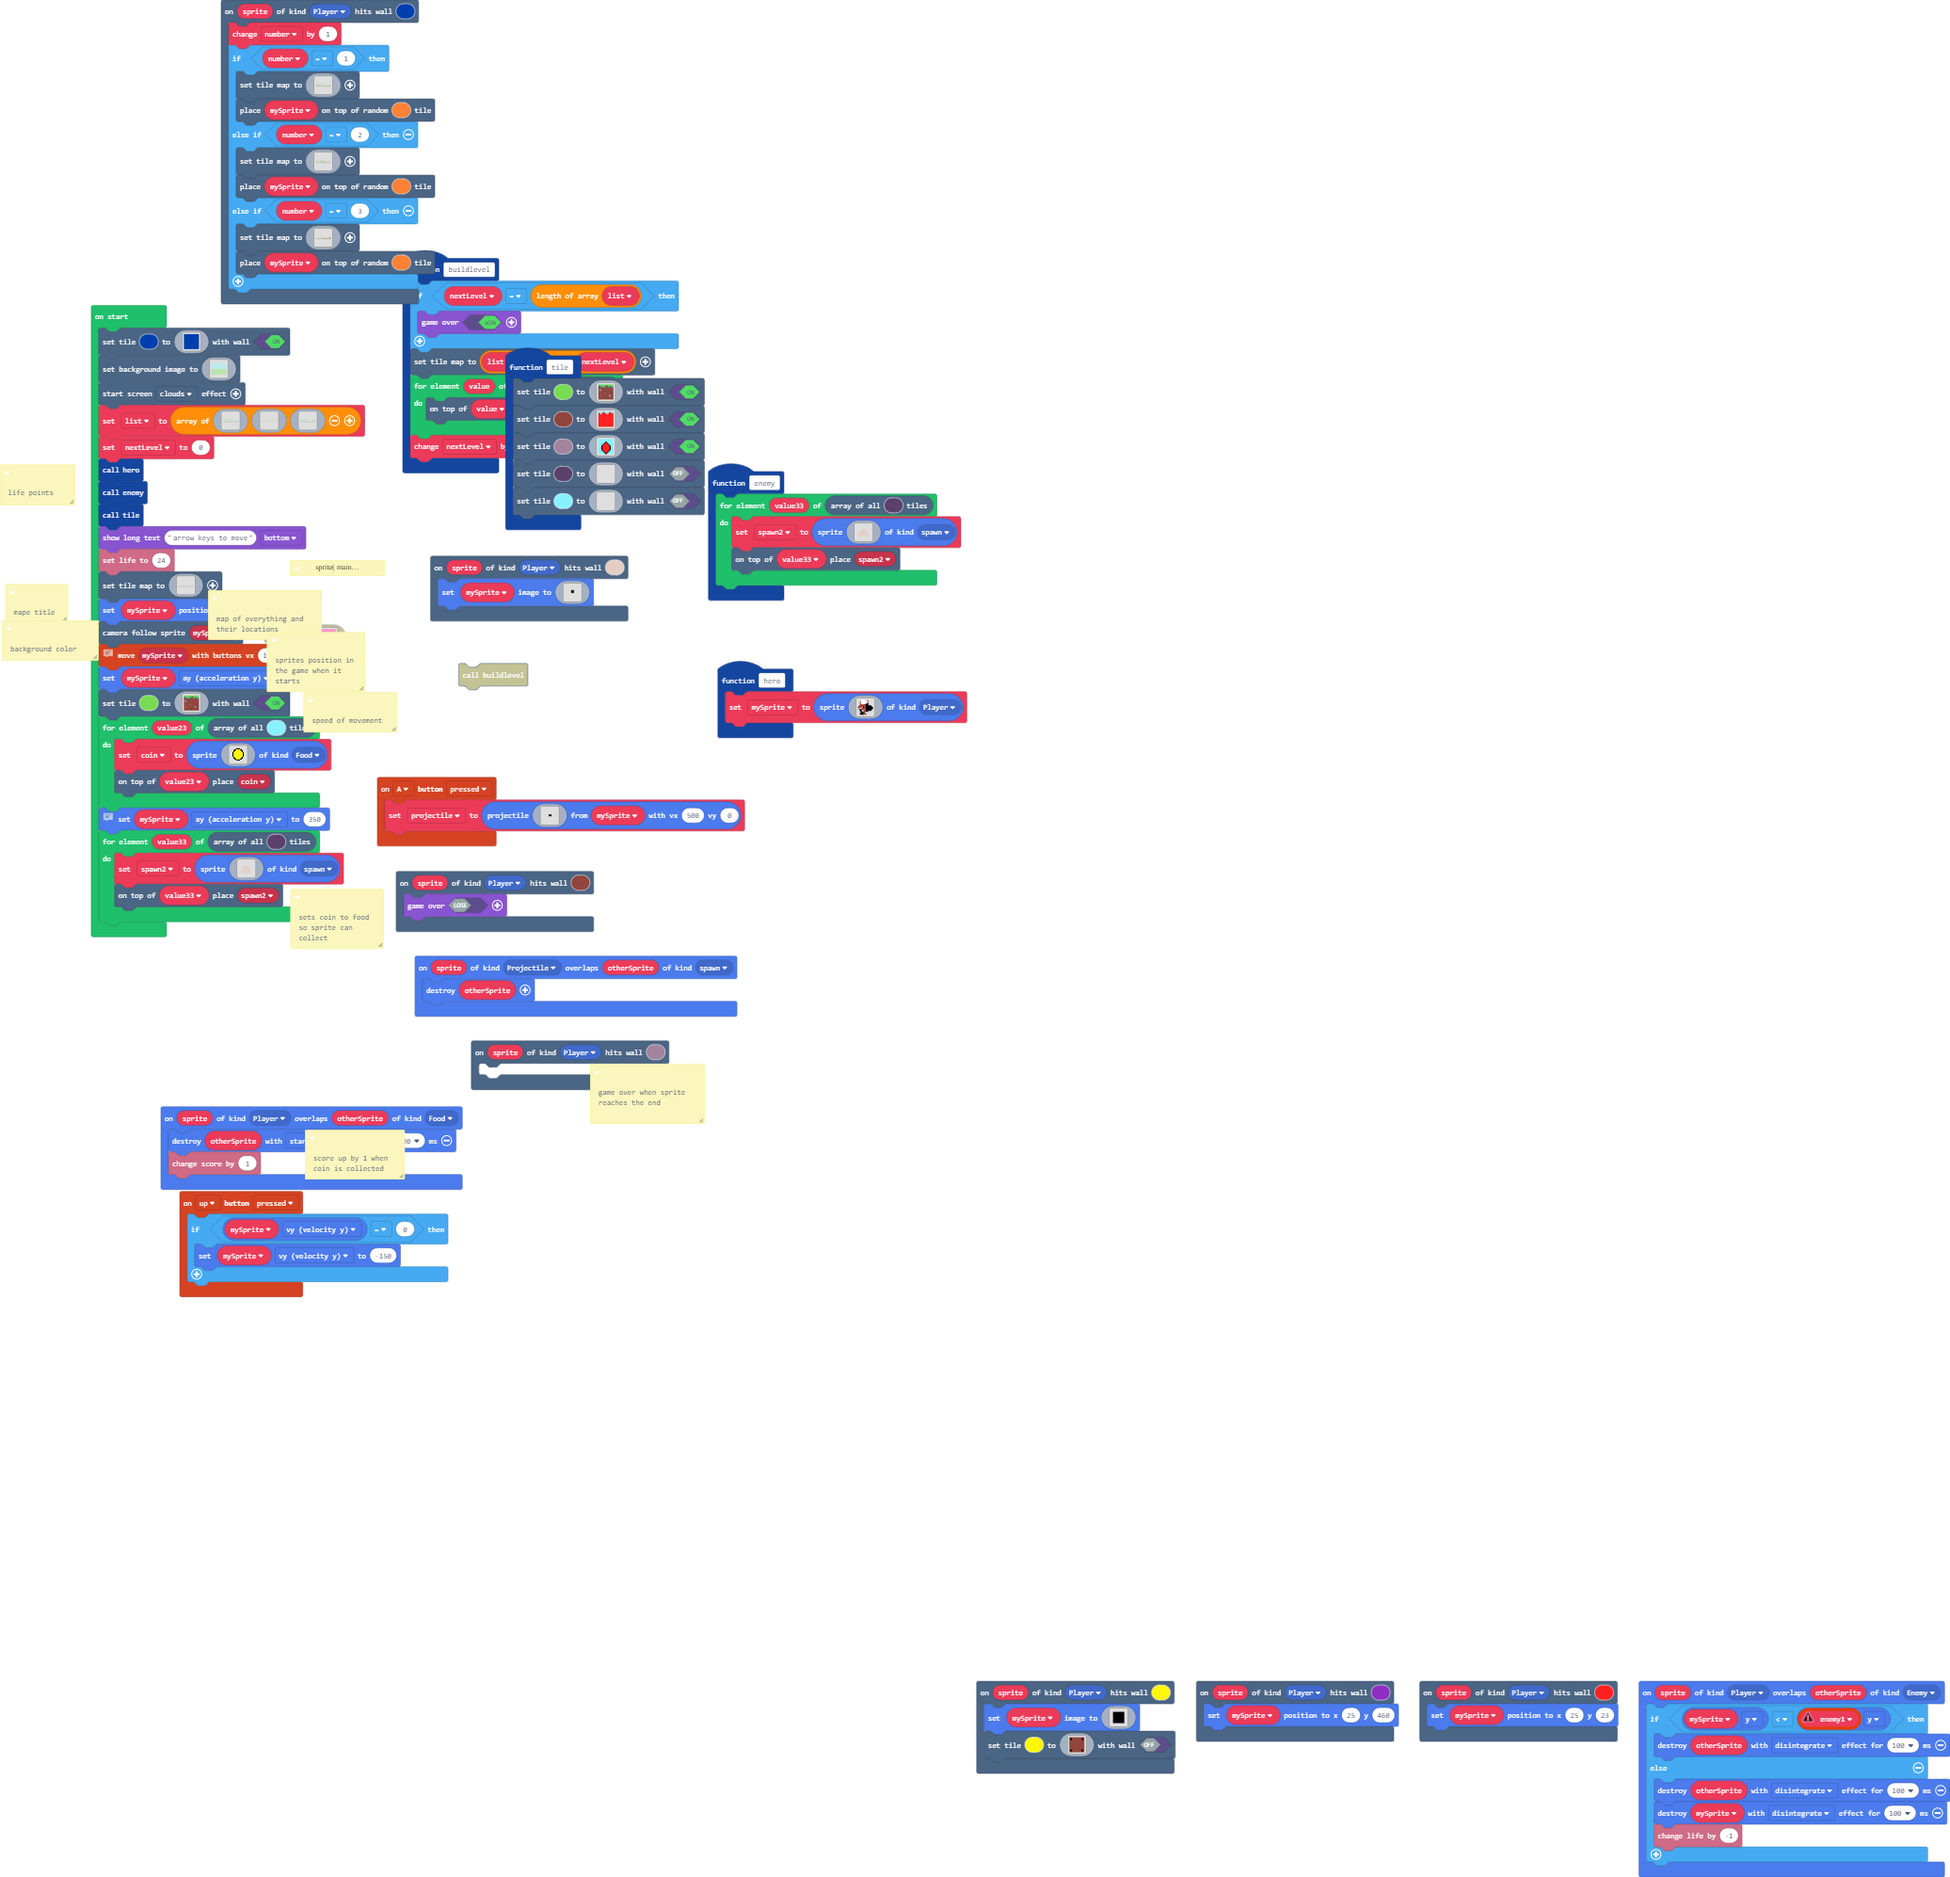
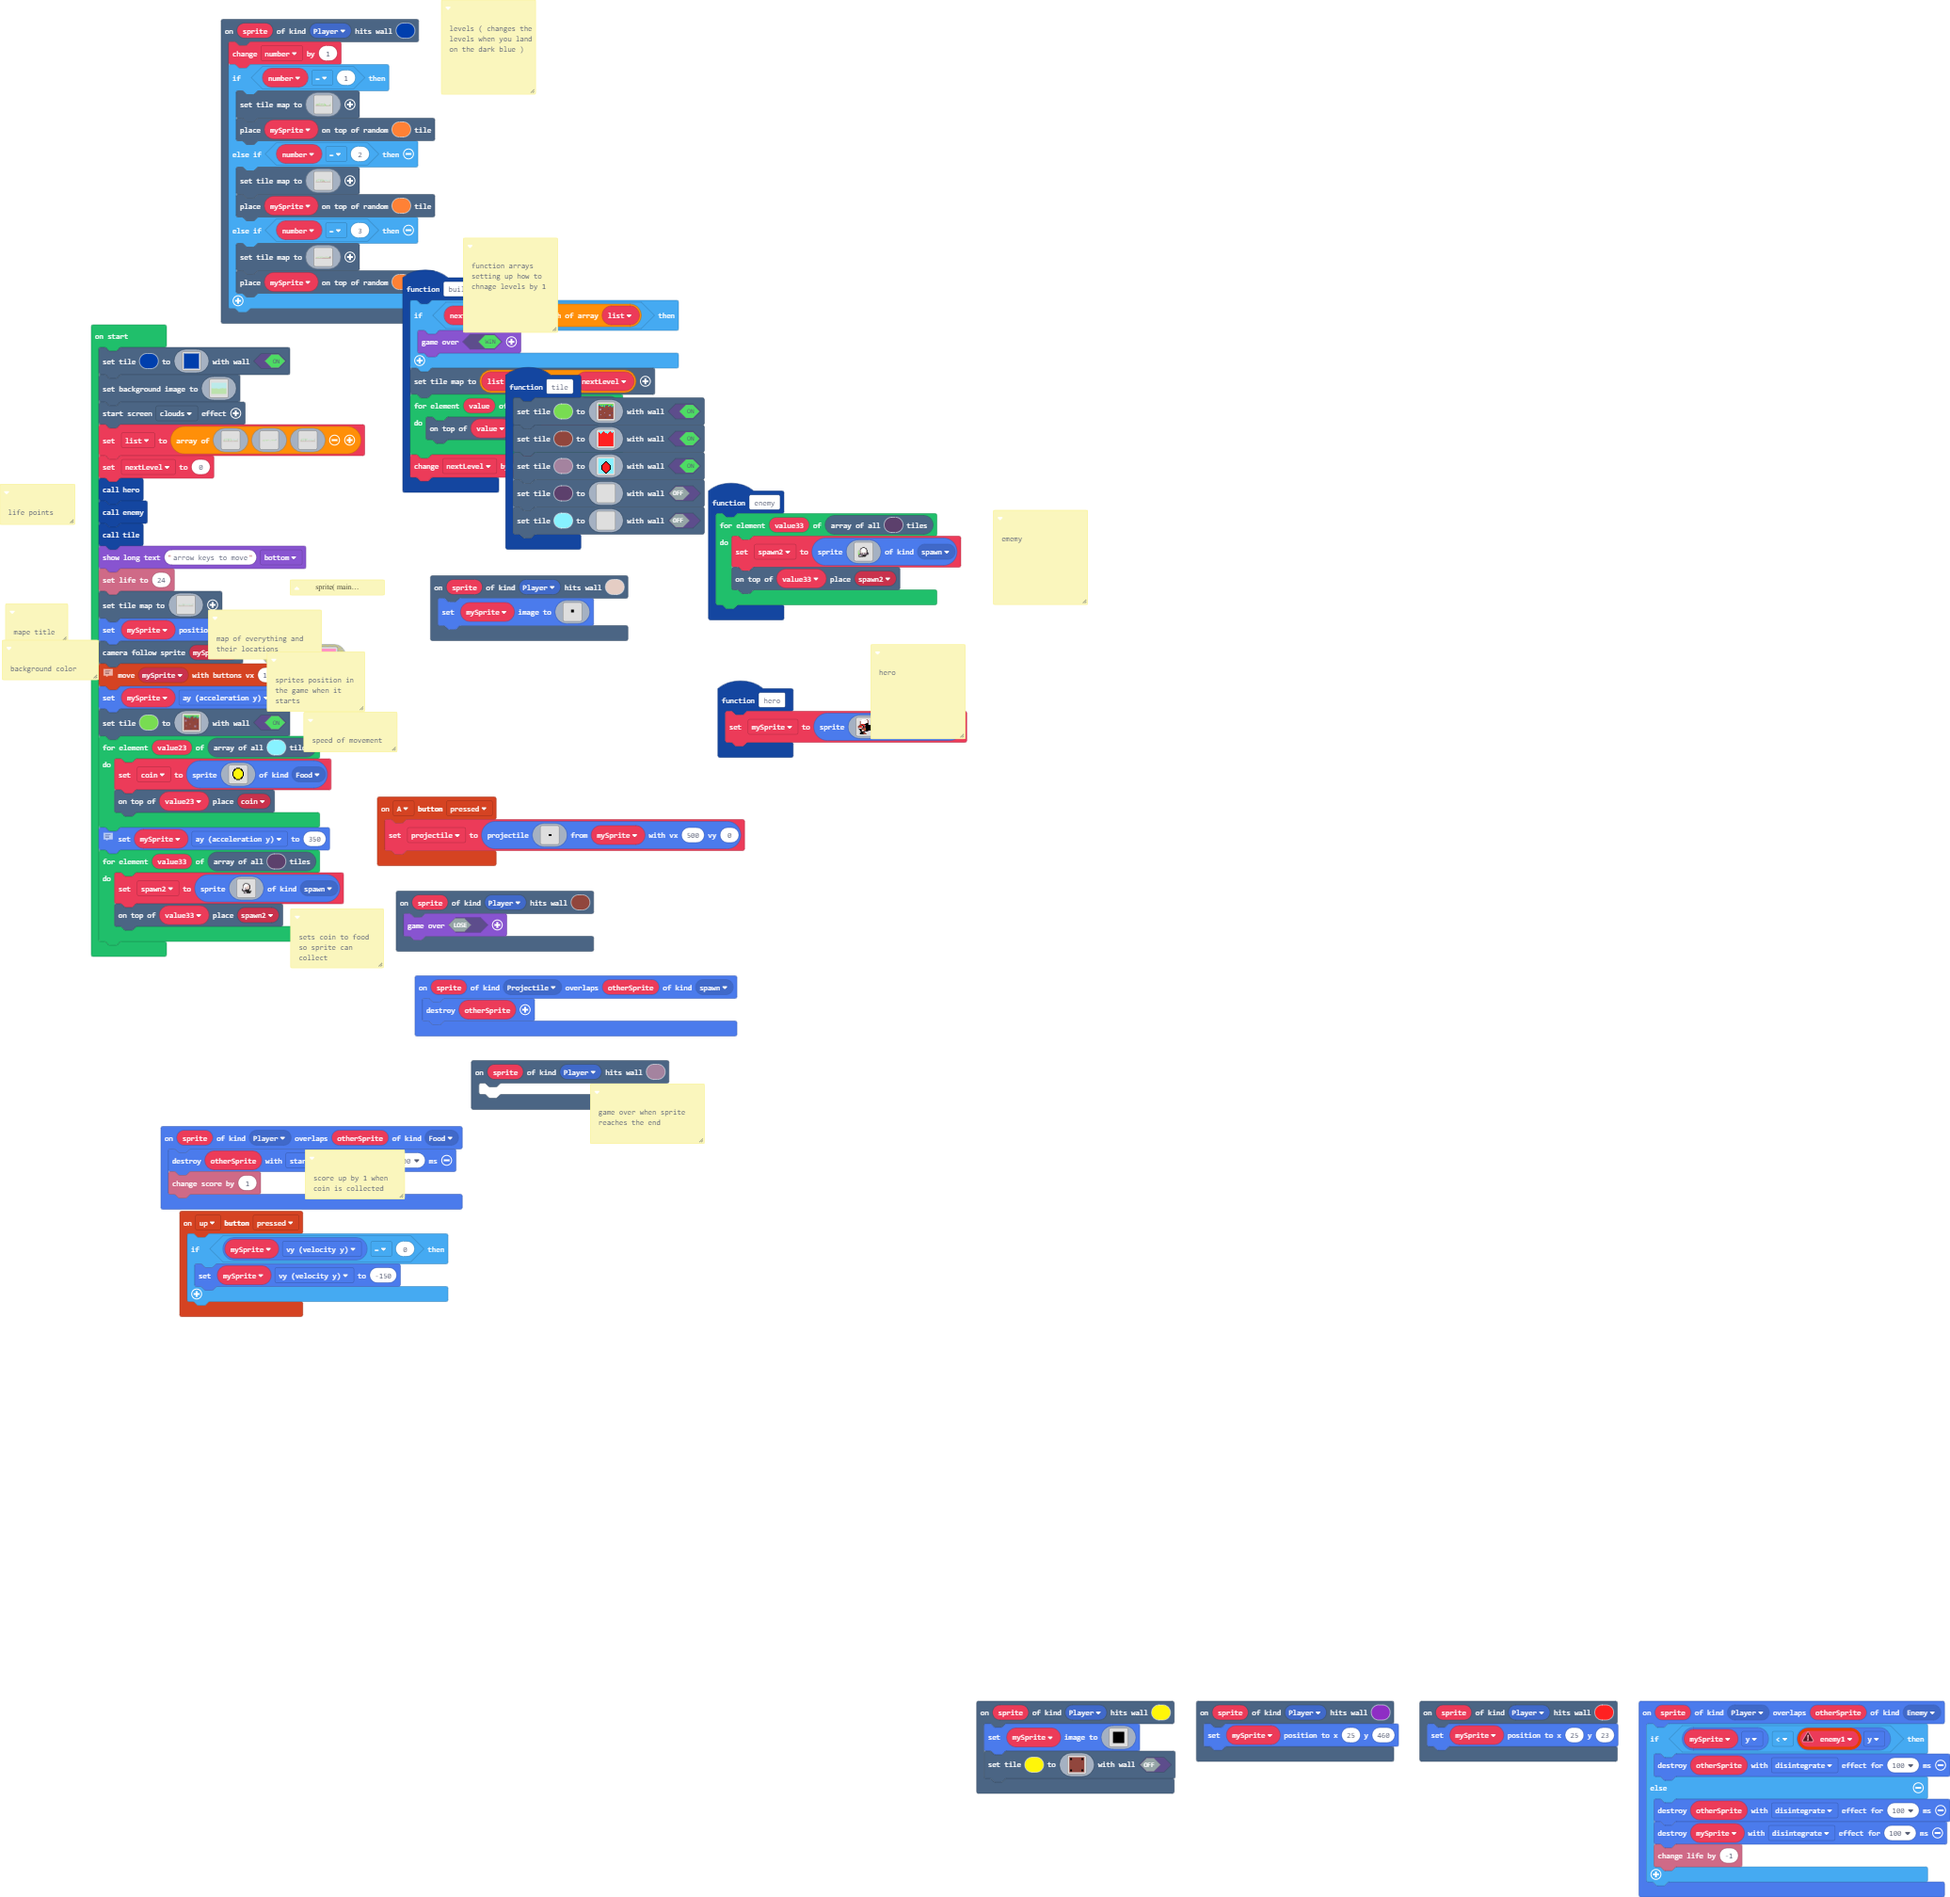
Update main.blocks, main.ts

Changed region(s): [[0.0, 0.0, 0.556, 0.6219], [0.4942, 0.8706, 1.0, 0.995], [0.0618, 0.5908, 0.2471, 0.7151]]

diff --git a/main.ts b/main.ts
@@ -5,7 +5,15 @@ namespace SpriteKind {
  * life points
  */
 /**
+ * ememy
+ */
+/**
  * mape title
+ */
+/**
+ * function arrays 
+ * 
+ * setting up how to chnage levels by 1
  */
 function buildlevel () {
     if (nextLevel == list.length) {
@@ -53,6 +61,9 @@ scene.onHitTile(SpriteKind.Player, 13, function (sprite) {
 . . . . . . . . . . . . . . . . . . . . . . . . . . . . . . . . 
 `)
 })
+/**
+ * hero
+ */
 function hero () {
     mySprite = sprites.create(img`
 . . . . 1 1 1 1 1 e . . . . . . 
@@ -181,6 +192,9 @@ sprites.onOverlap(SpriteKind.Player, SpriteKind.Food, function (sprite, otherSpr
     otherSprite.destroy(effects.starField, 100)
     info.changeScoreBy(1)
 })
+/**
+ * levels ( changes the levels when you land on the dark blue )
+ */
 scene.onHitTile(SpriteKind.Player, 8, function (sprite) {
     number += 1
     if (number == 1) {
@@ -305,22 +319,22 @@ function enemy () {
 . . . . . . . . . . . . . . . . . . . . . . . . 
 . . . . . . . . . . . . . . . . . . . . . . . . 
 . . . . . . . . . . . . . . . . . . . . . . . . 
-. . . . . . . . . . . . . . . . . . . . . . . . 
-. . . . . . . . . . . . . . . . . . . . . . . . 
-. . . . . . . . . d d d d d . . . . . . . . . . 
-. . . . . . . . d d d d d d d d . . . . . . . . 
-. . . . . . . d d d d d d d d d d . . . . . . . 
-. . . . . . . d d d d d d d d d d . . . . . . . 
-. . . . . . d d d d d d d d d d d . . . . . . . 
-. . . . . . d d d d d d d d d d d d . . . . . . 
-. . . . . d d d d d d d d d d d d d . . . . . . 
-. . . . d d d d d d d d d d d d d d d . . . . . 
-. . . . d d d d d d d d d d d d d d d . . . . . 
-. . . . d d d d d d d d d d d d d d d . . . . . 
-. . . . d d d d d d d d d d d d d d d . . . . . 
-. . . . . d d d d d d d d d d d d d . . . . . . 
-. . . . . . . . . . . . . . . . . . . . . . . . 
-. . . . . . . . . . . . . . . . . . . . . . . . 
+. . . . . . . . . . f f f f . . . . . . . . . . 
+. . . . . . . . f f 1 1 1 1 f f . . . . . . . . 
+. . . . . . . f b 1 1 1 1 1 1 b f . . . . . . . 
+. . . . . . . f 1 1 1 1 1 1 1 1 f . . . . . . . 
+. . . . . . f d 1 1 1 1 1 1 1 1 d f . . . . . . 
+. . . . 7 . f d 1 1 1 1 1 1 1 1 d f . . . . . . 
+. . . 7 . . f d 1 1 1 1 1 1 1 1 d f . . . . . . 
+. . . 7 . . f d 1 1 1 1 1 1 1 1 d f . . . . . . 
+. . . 7 . . f d d d 1 1 1 1 d d d f f . . . . . 
+. . . 7 7 . f b d b f d d f b d b f c f . . . . 
+. . . 7 7 7 f c d c f 1 1 f c d c f b f . . . . 
+. . . . 7 7 f f f b d b 1 b d f f c f . . . . . 
+. . . . f c b 1 b c f f f f f f . . . . . . . . 
+. . . . f 1 c 1 c 1 f f f f f f . . . . . . . . 
+. . . . f d f d f d f f f f f . . . . . . . . . 
+. . . . . f . f . f . . . . . . . . . . . . . . 
 . . . . . . . . . . . . . . . . . . . . . . . . 
 . . . . . . . . . . . . . . . . . . . . . . . . 
 . . . . . . . . . . . . . . . . . . . . . . . . 
@@ -631,22 +645,22 @@ for (let value33 of scene.getTilesByType(12)) {
 . . . . . . . . . . . . . . . . . . . . . . . . 
 . . . . . . . . . . . . . . . . . . . . . . . . 
 . . . . . . . . . . . . . . . . . . . . . . . . 
-. . . . . . . . . . . . . . . . . . . . . . . . 
-. . . . . . . . . . . . . . . . . . . . . . . . 
-. . . . . . . . . . . . . . . . . . . . . . . . 
-. . . . . . . . . d d d d d . . . . . . . . . . 
-. . . . . . . . d d d d d d d d . . . . . . . . 
-. . . . . . . d d d d d d d d d d . . . . . . . 
-. . . . . . . d d d d d d d d d d . . . . . . . 
-. . . . . . d d d d d d d d d d d . . . . . . . 
-. . . . . . d d d d d d d d d d d d . . . . . . 
-. . . . . d d d d d d d d d d d d d . . . . . . 
-. . . . d d d d d d d d d d d d d d d . . . . . 
-. . . . d d d d d d d d d d d d d d d . . . . . 
-. . . . d d d d d d d d d d d d d d d . . . . . 
-. . . . d d d d d d d d d d d d d d d . . . . . 
-. . . . . d d d d d d d d d d d d d . . . . . . 
-. . . . . . . . . . . . . . . . . . . . . . . . 
+. . . . . . . . . f f f f f . . . . . . . . . . 
+. . . . . . . . f 1 1 1 1 1 f f . . . . . . . . 
+. . . . . . . f b 1 1 1 1 1 1 b f . . . . . . . 
+. . . . . . . f 1 1 1 1 1 1 1 d b f . . . . . . 
+. . . . . . f d 1 1 1 1 1 1 d d d f . . . . . . 
+. . . . . . f d 1 1 1 1 1 d d d d f . . . . . . 
+. . . . . . f d 1 1 d d d d d d d f . . . . . . 
+. . . . . . f 1 1 1 d d d d d d d f . . . . . . 
+. . . . . . f 1 1 f c d d d d d d f . . . . . . 
+. . . . . f b 1 1 1 1 b d d d b f . . . . . . . 
+. . . . . f 1 b 1 b d f c f f f . . . . . . . . 
+. . . . . f b f b f f f f f f f f . . . . . . . 
+. . . . . . f f f f f f f f f f f . f f . . . . 
+. . . . . . . . . . . f f f f f f f f . . . . . 
+. . . . . . . . f 1 b 1 b f f f f f f . . . . . 
+. . . . . . . . f b f b f f f f f f . . . . . . 
 . . . . . . . . . . . . . . . . . . . . . . . . 
 . . . . . . . . . . . . . . . . . . . . . . . . 
 . . . . . . . . . . . . . . . . . . . . . . . . 
